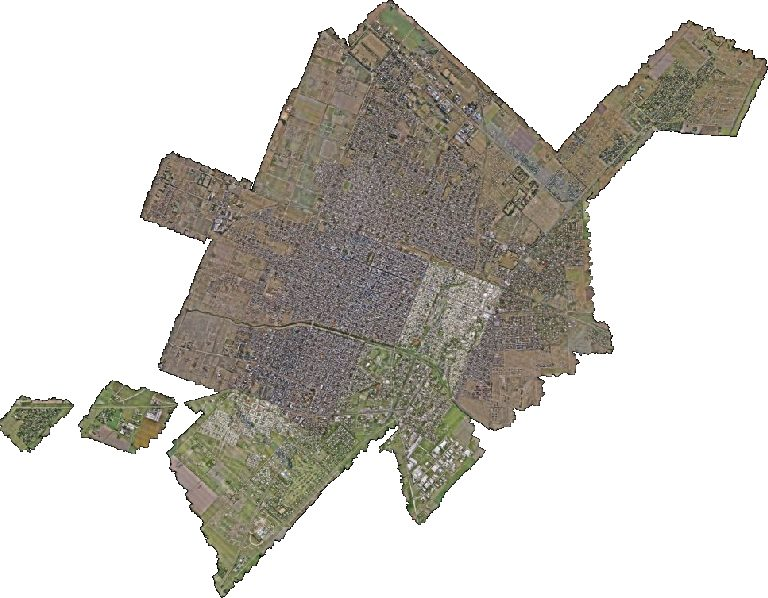
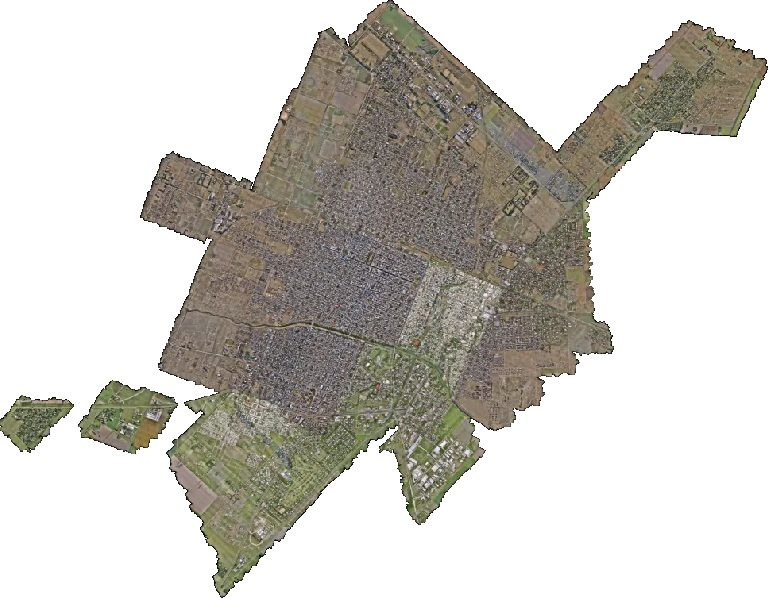
Store the orthophoto overview's alpha as a band, not a mask
GDAL writes an internal mask as a 1-band image after each overview
level. A viewer that ignores the TIFF mask flag took the smallest of
those for the lowest zoom and drew the collection as a white silhouette
on black. The overview now keeps its alpha band and uses lossy WebP,
since JPEG cannot hold alpha. Every internal image is RGBA, and the file
is 31 MB against 38 MB before.

diff --git a/tools/imagery/ortofotos.py b/tools/imagery/ortofotos.py
@@ -15,8 +15,8 @@ Builds ``catalog/imagenes/ortofotos_10cm_2022``:
   file that does not, including every WCS assembly, is re-encoded once as a
   JPEG COG with an internal mask and exact embedded statistics.
 - Writes one Item per tile with the valid-data footprint as geometry, a
-  thumbnail, the collection overview (8-bit RGB in EPSG:3857 at 1 m, with an
-  internal mask), the collection thumbnail and ``items.parquet``.
+  thumbnail, the collection overview (8-bit RGB plus alpha in EPSG:3857 at
+  1 m, WebP), the collection thumbnail and ``items.parquet``.
 
 Idempotent: a tile whose Item exists and whose GeoNode ``last_updated``
 equals the Item's ``pergamino:source_updated`` is not downloaded again.
@@ -601,11 +601,16 @@ def set_masked_stats(path: Path) -> None:
 
 
 def build_overview(items: list[dict[str, Any]]) -> Path:
-    """8-bit RGB overview of every tile in EPSG:3857 at 1 m.
+    """8-bit RGB plus alpha overview of every tile in EPSG:3857 at 1 m.
 
-    gdalwarp reads each tile's internal overviews and honours its mask; the
-    alpha band it writes becomes the COG's internal mask. Areas with no tile
-    are left unwritten (sparse), so the file stays small.
+    gdalwarp reads each tile's internal overviews and honours its mask. The
+    alpha band it writes stays a band of the COG, compressed with lossy
+    WebP. An internal mask would not do: GDAL writes it as a 1-band image
+    after each overview level, and a viewer that ignores the TIFF mask flag
+    takes the smallest of those for the lowest zoom, which shows the
+    collection as a white silhouette on black. JPEG cannot hold the alpha
+    band. Areas with no tile are left unwritten (sparse), so the file stays
+    small.
     """
     out = COLLECTION_DIR / OVERVIEW_FILE
     work = Path(tempfile.mkdtemp(prefix="overview_", dir=RAW.parent))
@@ -621,8 +626,7 @@ def build_overview(items: list[dict[str, Any]]) -> Path:
     ])
     set_masked_stats(warped)
     common.run([
-        "gdal_translate", "-q", "-of", "COG", "-b", "1", "-b", "2",
-        "-b", "3", "-mask", "4", "-co", "COMPRESS=JPEG",
+        "gdal_translate", "-q", "-of", "COG", "-co", "COMPRESS=WEBP",
         "-co", "QUALITY=80", "-co", "BLOCKSIZE=512",
         "-co", "SPARSE_OK=TRUE", "-co", "STATISTICS=AUTO",
         "-co", "OVERVIEW_RESAMPLING=AVERAGE", "-co", "BIGTIFF=IF_SAFER",
@@ -682,7 +686,7 @@ def update_collection(overview: bool = True) -> dict[str, Any]:
             {"name": n, "data_type": "uint8", "statistics": s}
             for n, s in zip(("red", "green", "blue"),
                             common.embedded_stats(ov))
-        ]
+        ] + [{"name": "alpha", "data_type": "uint8"}]
         doc["assets"]["overview"].update(common.proj_fields(ov))
     keep = [ln for ln in doc["links"] if ln["rel"] != "item"]
     doc["links"] = keep[:2] + common.item_links(COLLECTION_DIR, items) \

diff --git a/catalog/imagenes/ortofotos_10cm_2022/README.md b/catalog/imagenes/ortofotos_10cm_2022/README.md
@@ -30,7 +30,8 @@ del mosaico en GeoNode.
   píxeles válidos, no el rectángulo de la grilla.
 - **`overview.tif`**, recurso de la colección con los roles `visual` y
   `overview`: todos los mosaicos en una imagen RGB de 8 bits en Web Mercator
-  (EPSG:3857) a 1 m, con máscara interna. Sirve para ver qué cubre la
+  (EPSG:3857) a 1 m, comprimida en WebP, con una cuarta banda alfa que
+  marca el área sin imagen. Sirve para ver qué cubre la
   colección sin abrir cada mosaico. Para medir o analizar, usar los COG de
   los ítems.
 - **`items.parquet`**: una fila por ítem, en stac-geoparquet, ordenadas por

diff --git a/catalog/imagenes/ortofotos_10cm_2022/AGENTS.md b/catalog/imagenes/ortofotos_10cm_2022/AGENTS.md
@@ -109,7 +109,8 @@ import rasterio
 url = ("https://data.source.coop/nlebovits/pergamino-ide/imagenes/"
        "ortofotos_10cm_2022/overview.tif")
 with rasterio.open(url) as src:
-    small = src.read(out_shape=(3, src.height // 64, src.width // 64),
+    small = src.read([1, 2, 3],
+                     out_shape=(3, src.height // 64, src.width // 64),
                      masked=True)
 print(src.crs, small.shape)
 ```
